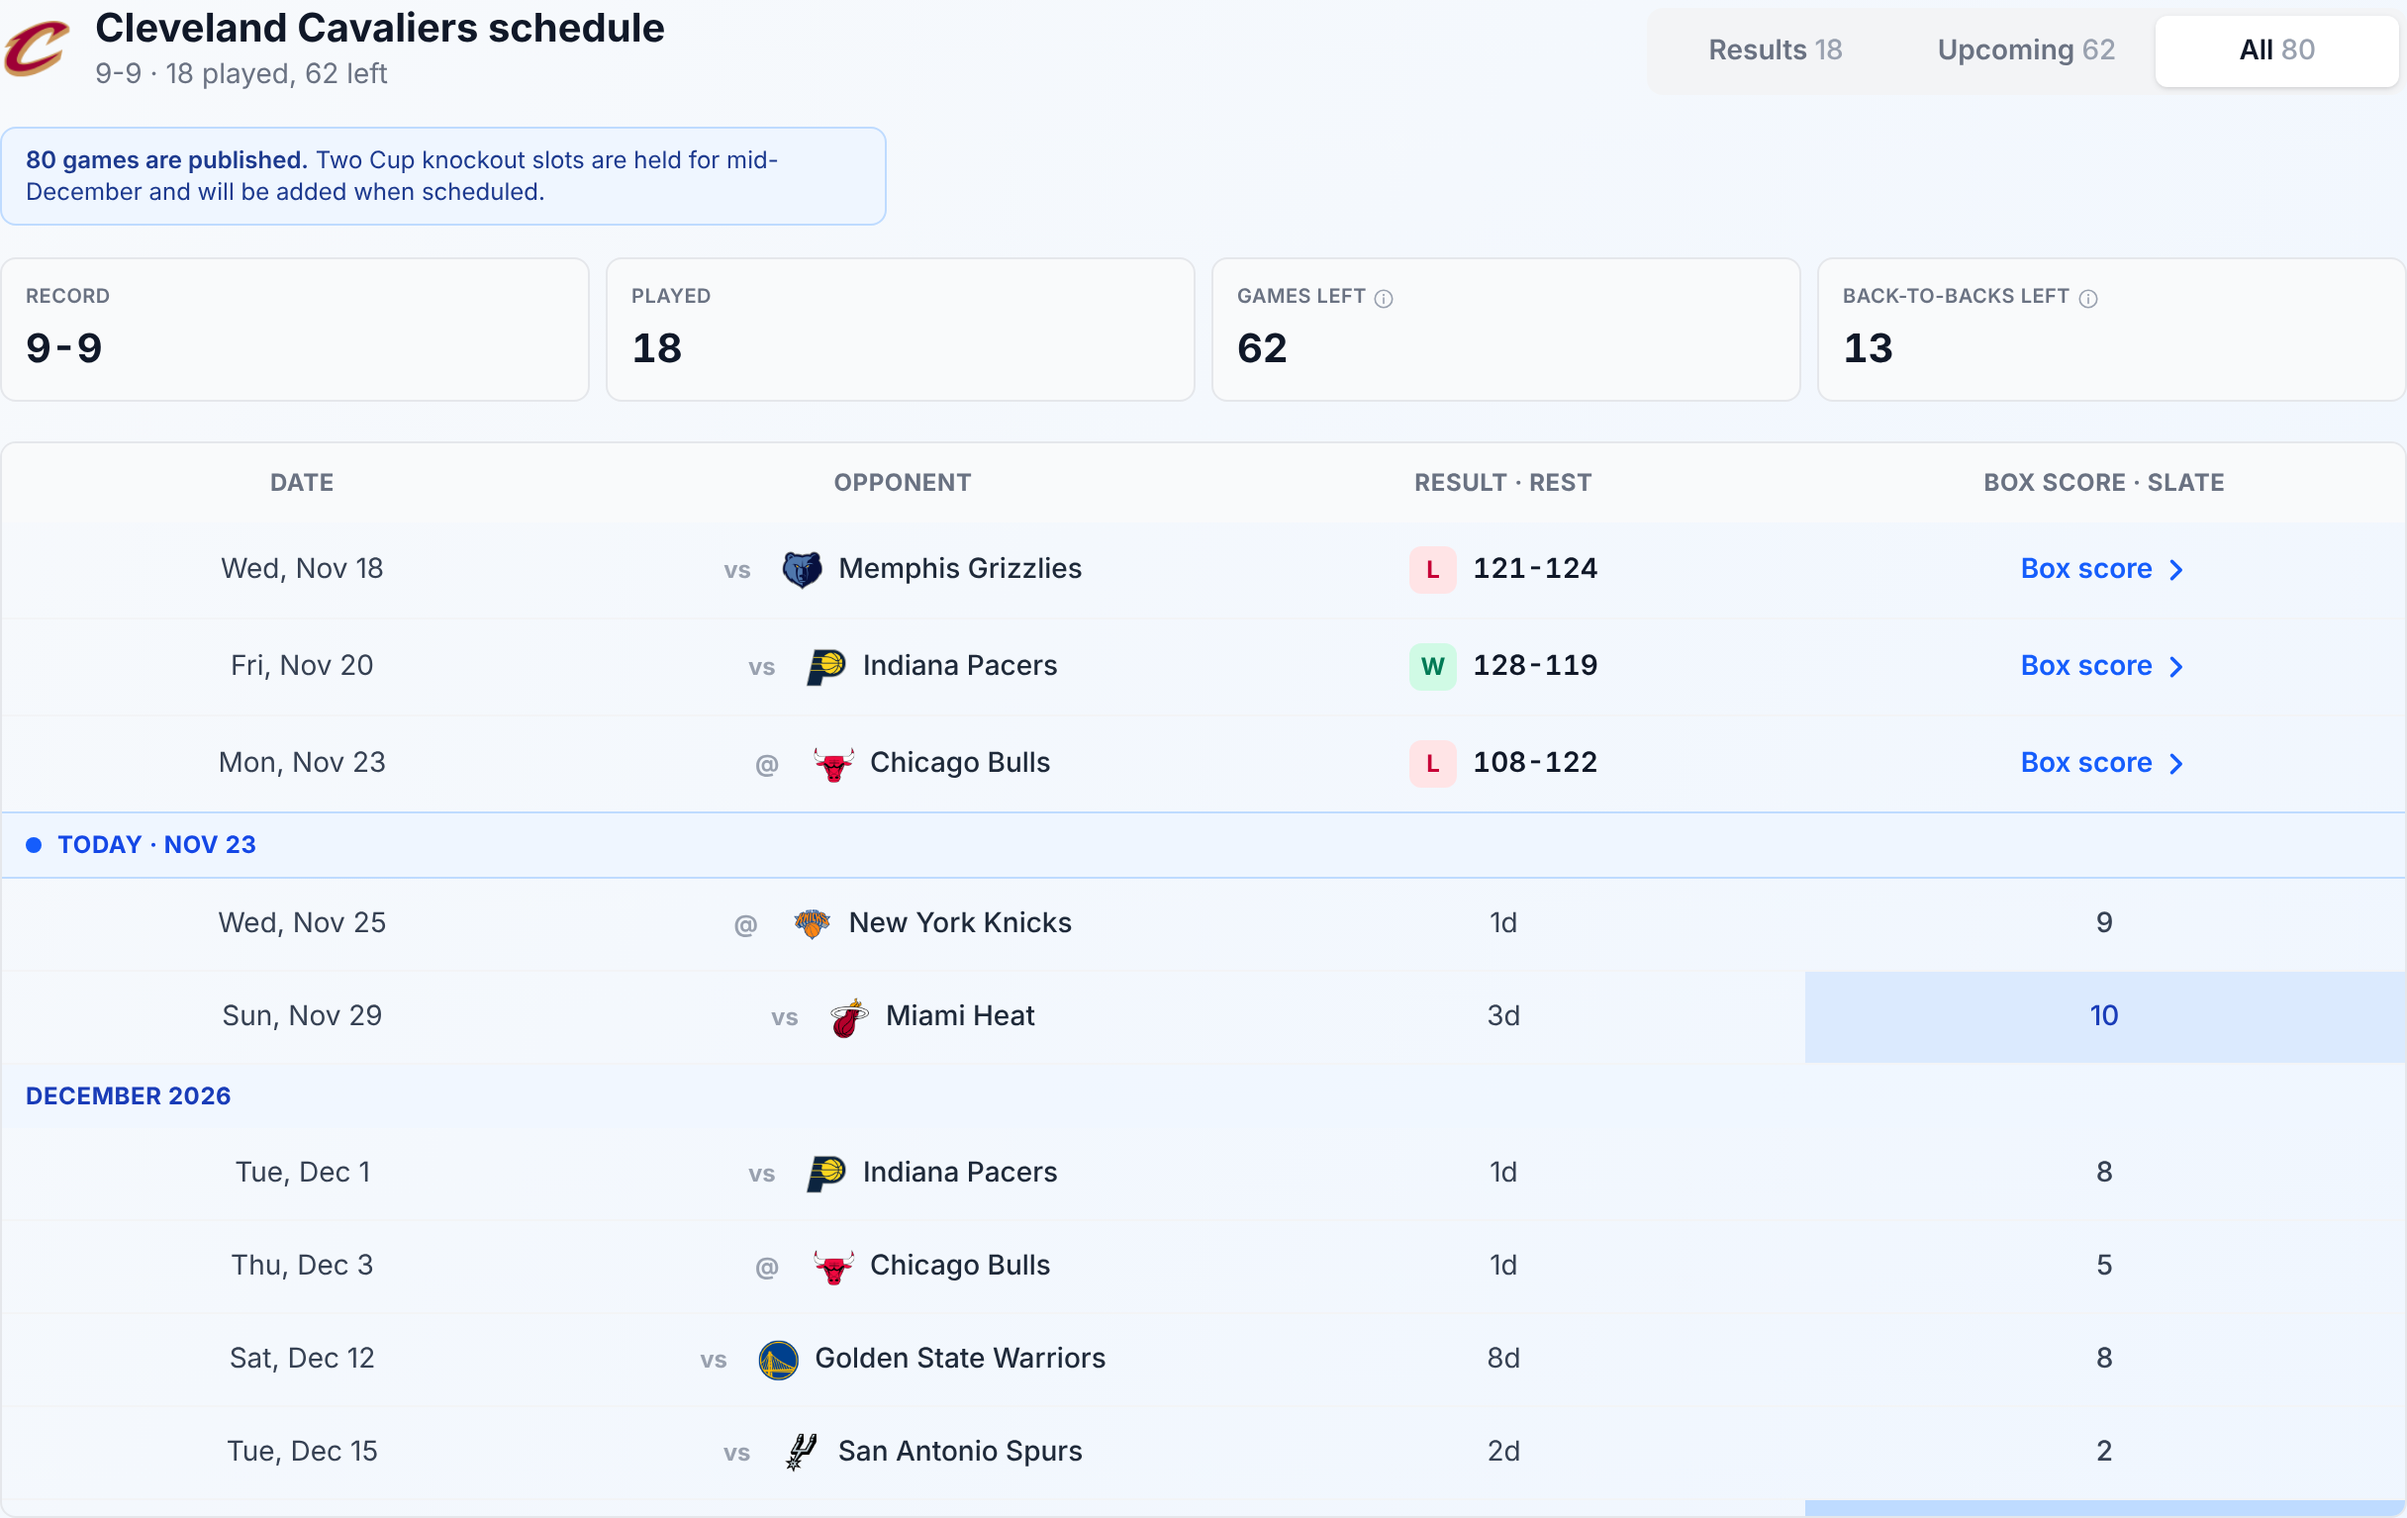
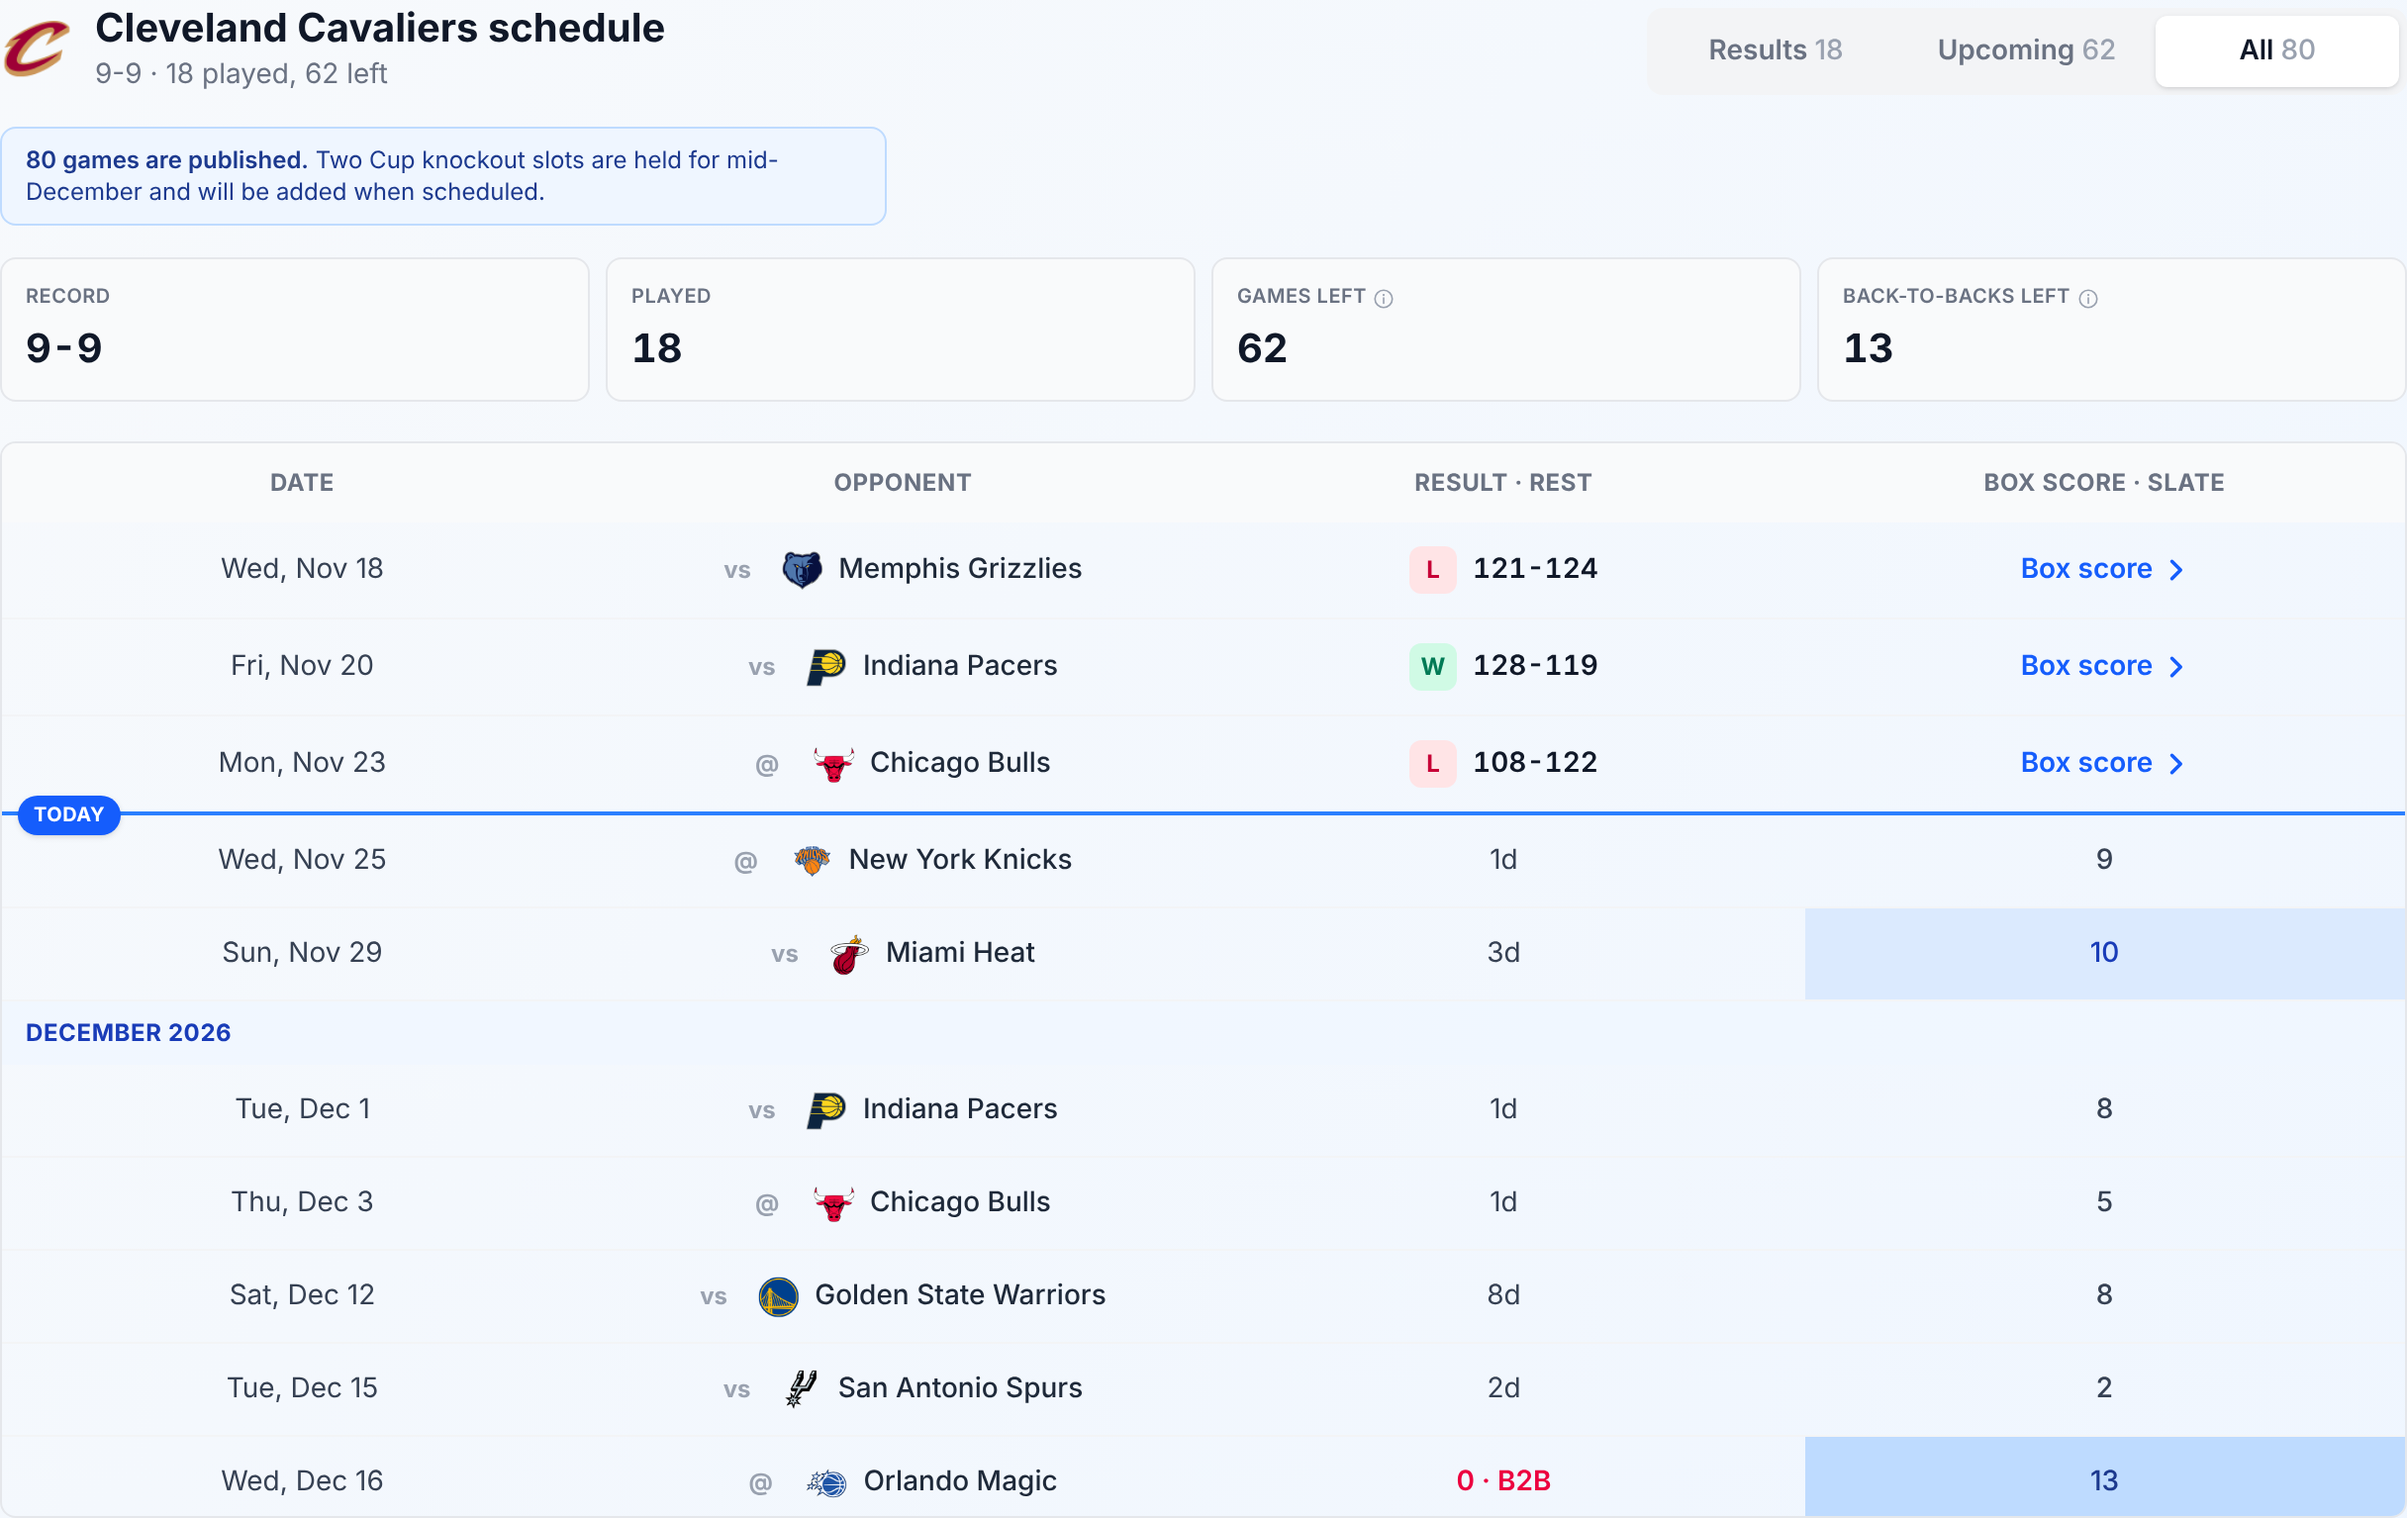
Team schedule: Today as a thin line with a pill instead of a band row
The line is the top edge of the first game still to play (or its month
heading), with a small Today pill at its left end. No extra row.

Claude-Session: https://claude.ai/code/session_0185q4oo2JYyZqmETuaYpEys

diff --git a/frontend/src/components/TeamScheduleView.tsx b/frontend/src/components/TeamScheduleView.tsx
@@ -49,6 +49,22 @@ function Kpi({ label, value, metric }: { label: string; value: string | number; 
   )
 }
 
+const TODAY_LINE = 'border-t-2 border-t-blue-500 dark:border-t-blue-400'
+
+/** Small pill on today's line, at its left end. */
+function TodayPill() {
+  const today = formatDate(easternToday(), { month: 'short', day: 'numeric' })
+  return (
+    <span
+      data-testid="schedule-today"
+      title={`Today, ${today}`}
+      className="absolute left-2 top-0 z-[1] -translate-y-1/2 rounded-full bg-blue-600 px-2 py-0.5 text-[10px] font-bold uppercase leading-4 tracking-wide text-white shadow-sm dark:bg-blue-500"
+    >
+      Today
+    </span>
+  )
+}
+
 function restLabel(game: ScheduleGame): string {
   return game.rest_days === null ? '—' : game.rest_days === 0 ? '0 · B2B' : `${game.rest_days}d`
 }
@@ -189,29 +205,25 @@ function ScheduleBody({ team }: { team: ScheduleTeam }) {
               const previous = shown[index - 1]
               const showMonth = !previous || monthKey(previous.game.date) !== monthKey(game.date)
               const href = boxScoreHref(game)
+              // Today's line sits on the top edge of the first game still to play (or its month heading).
+              const marksToday = showToday && index === todayIndex
               return (
                 <Fragment key={game.game_id}>
-                  {showToday && index === todayIndex && (
-                    <tr data-testid="schedule-today">
-                      <td colSpan={4} className="border-y border-blue-200 bg-blue-50 px-3 py-2 text-xs font-bold uppercase tracking-wide text-blue-700 dark:border-blue-800 dark:bg-blue-950 dark:text-blue-200">
-                        <span className="inline-flex items-center gap-2">
-                          <span aria-hidden="true" className="h-2 w-2 rounded-full bg-blue-600" />
-                          Today · {formatDate(easternToday(), { month: 'short', day: 'numeric' })}
-                        </span>
-                      </td>
-                    </tr>
-                  )}
                   {showMonth && (
-                    <tr className="bg-blue-50/70 dark:bg-gray-700">
-                      <th colSpan={4} className="px-3 py-2 text-left text-xs font-bold uppercase tracking-wide text-blue-800 dark:text-blue-200">{monthLabel(game.date)}</th>
+                    <tr className={`bg-blue-50/70 dark:bg-gray-700 ${marksToday ? TODAY_LINE : ''}`}>
+                      <th colSpan={4} className="relative px-3 py-2 text-left text-xs font-bold uppercase tracking-wide text-blue-800 dark:text-blue-200">
+                        {marksToday && <TodayPill />}
+                        {monthLabel(game.date)}
+                      </th>
                     </tr>
                   )}
                   <tr
                     data-row-index={index}
                     onClick={row.played ? () => navigate(href) : undefined}
-                    className={`border-b border-gray-100 last:border-0 hover:bg-gray-50 ${row.played ? 'cursor-pointer' : ''}`}
+                    className={`border-b border-gray-100 last:border-0 hover:bg-gray-50 ${row.played ? 'cursor-pointer' : ''} ${marksToday && !showMonth ? TODAY_LINE : ''}`}
                   >
-                    <td className="whitespace-nowrap px-3 py-3 text-left text-gray-700 sm:text-center">{formatDate(game.date, { weekday: 'short', month: 'short', day: 'numeric' })}</td>
+                    <td className="relative whitespace-nowrap px-3 py-3 text-left text-gray-700 sm:text-center">
+                      {marksToday && !showMonth && <TodayPill />}{formatDate(game.date, { weekday: 'short', month: 'short', day: 'numeric' })}</td>
                     <td className="px-3 py-3 font-medium text-gray-800">
                       <span className="flex items-center justify-center gap-2">
                         <span className="w-5 text-xs font-bold text-gray-400">{game.is_home ? 'vs' : '@'}</span>

diff --git a/frontend/src/mobile/nba/MobileNbaTeams.tsx b/frontend/src/mobile/nba/MobileNbaTeams.tsx
@@ -181,6 +181,12 @@ function TeamScheduleCard({ teamId }: { teamId: string }) {
   )
 }
 
+/** Small pill on today's line, at its left end. */
+function TodayPill() {
+  const today = formatScheduleDate(easternToday(), { month: 'short', day: 'numeric' })
+  return <span className="mr-nba-today-pill" data-testid="schedule-today" title={`Today, ${today}`}>Today</span>
+}
+
 const SCHEDULE_VIEWS: SegmentedOption<ScheduleView>[] = [
   { value: 'results', label: 'Results' },
   { value: 'upcoming', label: 'Upcoming' },
@@ -251,20 +257,20 @@ function TeamScheduleBody({ team }: { team: ScheduleTeam }) {
               const showMonth = !previous || monthKey(previous.game.date) !== monthKey(game.date)
               const level = slateLevel(game)
               const date = formatScheduleDate(game.date, { weekday: 'short', month: 'short', day: 'numeric' })
+              // Today's line sits on the top edge of the first game still to play (or its month heading).
+              const marksToday = showToday && index === todayIndex
               return (
                 <Fragment key={game.game_id}>
-                  {showToday && index === todayIndex && (
-                    <tr className="mr-nba-today" data-testid="schedule-today">
-                      <th colSpan={4} scope="colgroup" className="mr-l">Today · {formatScheduleDate(easternToday(), { month: 'short', day: 'numeric' })}</th>
-                    </tr>
-                  )}
                   {showMonth && (
-                    <tr className="mr-nba-month">
-                      <th colSpan={4} scope="colgroup" className="mr-l">{monthLabel(game.date)}</th>
+                    <tr className={marksToday ? 'mr-nba-month mr-nba-today-line' : 'mr-nba-month'}>
+                      <th colSpan={4} scope="colgroup" className="mr-l">
+                        {marksToday && <TodayPill />}
+                        {monthLabel(game.date)}
+                      </th>
                     </tr>
                   )}
-                  <tr data-row-index={index}>
-                    <td className="mr-l">{date}</td>
+                  <tr data-row-index={index} className={marksToday && !showMonth ? 'mr-nba-today-line' : undefined}>
+                    <td className="mr-l">{marksToday && !showMonth && <TodayPill />}{date}</td>
                     <td className="mr-l">
                       <span className="mr-nba-opp">
                         <span className="mr-nba-vs">{game.is_home ? 'vs' : '@'}</span>

diff --git a/frontend/src/mobile/nba/nba.css b/frontend/src/mobile/nba/nba.css
@@ -46,7 +46,13 @@
 .mr-nba-tile-label { display: inline-flex; align-items: flex-start; gap: 2px; font-size: 10px; font-weight: 700; color: var(--mr-muted); letter-spacing: 0.04em; text-transform: uppercase; line-height: 1.25; }
 .mr-nba-tile-value { font-family: var(--mr-font-num); font-size: 20px; font-weight: 700; }
 .mr-t tr.mr-nba-month th { background: var(--mr-primary-soft); color: var(--mr-primary); font-size: 11px; font-weight: 700; letter-spacing: 0.05em; text-transform: uppercase; padding: 6px 8px; }
-.mr-t tr.mr-nba-today th { background: var(--mr-primary-soft); color: var(--mr-primary); border-top: 2px solid var(--mr-primary-2); font-size: 11px; font-weight: 800; letter-spacing: 0.06em; text-transform: uppercase; padding: 8px; }
+.mr-t tr.mr-nba-today-line > td, .mr-t tr.mr-nba-today-line > th { border-top: 2px solid var(--mr-primary-2); }
+.mr-t tr.mr-nba-today-line > :first-child { position: relative; }
+.mr-nba-today-pill {
+  position: absolute; left: 6px; top: 0; transform: translateY(-50%); z-index: 1;
+  padding: 1px 8px; border-radius: 999px; background: var(--mr-primary-2); color: #FFFFFF;
+  font-size: 10px; font-weight: 800; line-height: 16px; letter-spacing: 0.05em; text-transform: uppercase;
+}
 .mr-nba-opp { display: inline-flex; align-items: center; gap: 6px; white-space: nowrap; }
 .mr-nba-opp .mr-nba-vs { margin-right: 0; }
 .mr-nba-opp-logo { width: 20px; height: 20px; object-fit: contain; flex: none; }

diff --git a/frontend/src/components/__tests__/TeamScheduleView.test.tsx b/frontend/src/components/__tests__/TeamScheduleView.test.tsx
@@ -85,11 +85,13 @@ describe('TeamScheduleView', () => {
     expect(screen.getByText('Past Opponent')).toBeInTheDocument()
     expect(screen.getByRole('button', { name: /^All/ })).toHaveAttribute('aria-pressed', 'true')
     const today = screen.getByTestId('schedule-today')
-    expect(today).toHaveTextContent('Today · Oct 26')
+    expect(today).toHaveTextContent('Today')
+    expect(today).toHaveAttribute('title', 'Today, Oct 26')
     const rows = [...screen.getByRole('table').querySelectorAll('tr[data-row-index]')]
-    // Today's line sits right before tonight's game, the first not yet played.
-    expect(today.compareDocumentPosition(rows[2]) & Node.DOCUMENT_POSITION_FOLLOWING).toBeTruthy()
-    expect(today.compareDocumentPosition(rows[1]) & Node.DOCUMENT_POSITION_PRECEDING).toBeTruthy()
+    // Today's line is the top edge of tonight's game, the first not yet played.
+    expect(rows[2]).toContainElement(today)
+    expect(rows[2].className).toContain('border-t-blue-500')
+    expect(rows[1].className).not.toContain('border-t-blue-500')
     expect(await screen.findAllByRole('link', { name: /^Box score:/ })).toHaveLength(2)
     expect(screen.getByText('0 · B2B')).toBeInTheDocument()
   })

diff --git a/frontend/e2e/team-schedule-results.spec.ts b/frontend/e2e/team-schedule-results.spec.ts
@@ -37,7 +37,8 @@ test('Results opens at the latest game and links to its box score; All opens at 
   await all.click()
   await scroll.scrollIntoViewIfNeeded()
   await expect(page.getByTestId('schedule-today')).toBeInViewport()
-  await expect(page.getByTestId('schedule-today')).toContainText('Today · Nov 24')
+  await expect(page.getByTestId('schedule-today')).toHaveText('Today')
+  await expect(page.getByTestId('schedule-today')).toHaveAttribute('title', 'Today, Nov 24')
   await expect(page.getByRole('link', { name: 'Box score: Loss 108-122 at Chicago Bulls, Nov 23' })).toBeInViewport()
 
   await page.getByRole('link', { name: 'Box score: Loss 108-122 at Chicago Bulls, Nov 23' }).click()
